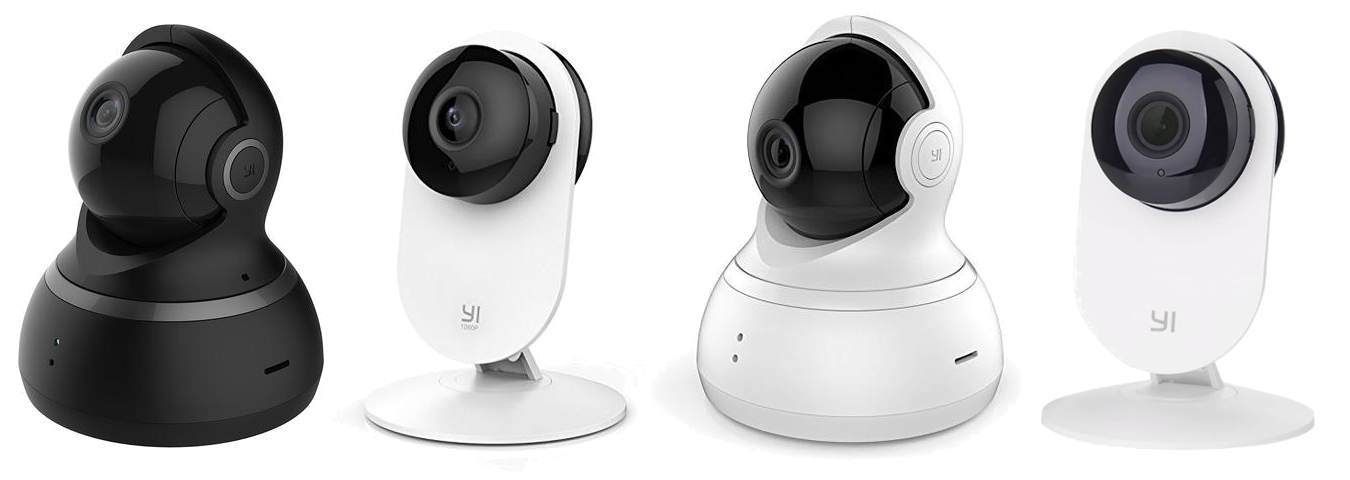
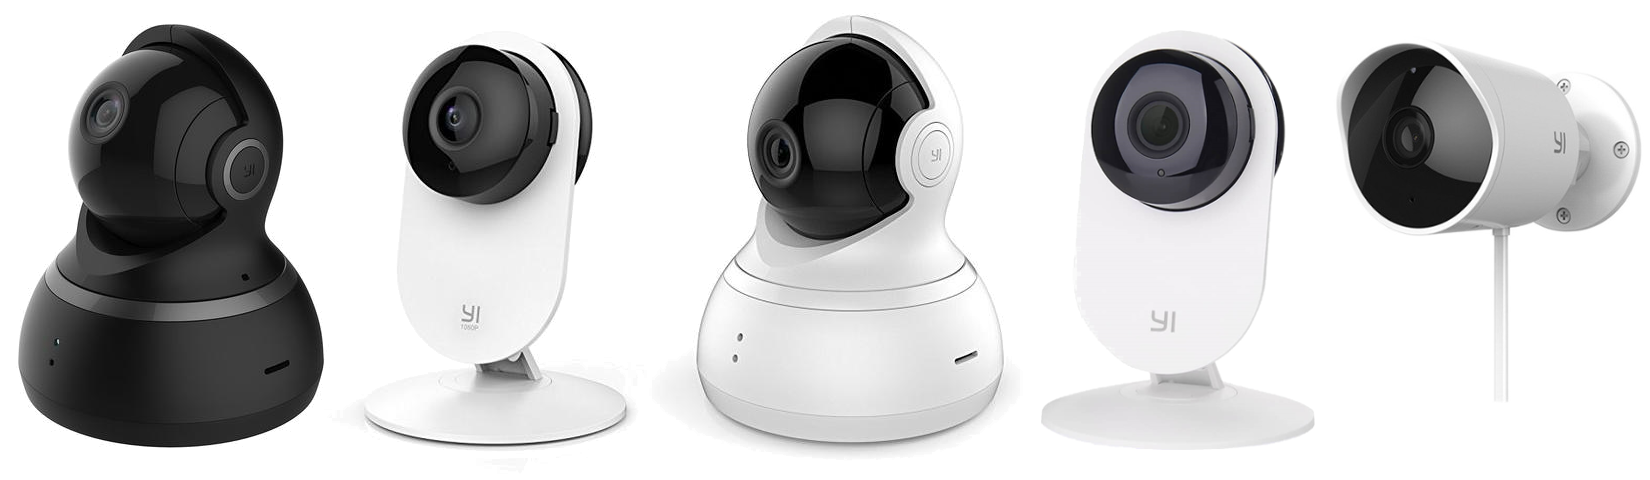
Added support for Yi Outdoor camera.

diff --git a/README.md b/README.md
@@ -7,6 +7,7 @@ Currently this project supports:
 * Yi 1080p Home
 * Yi Dome
 * Yi 1080p Dome
+* Yi Outdoor
 
 ![Alt text](yi-cam.png?raw=true "Supported Yi Cameras")
 
@@ -65,6 +66,7 @@ Performance is not degraded as the cameras video/audio feed is not routed throug
 
 ## Getting Started - Step by Step Guide
 1. Check that you have a correct Xiaomi Yi camera. Currently four (4) series of cameras are supported: 
+* Yi Outdoor
 * Yi Home 17CN / 27US / 47US Camera
 * Yi 1080p Home Camera
 * Yi Dome Camera
@@ -83,6 +85,7 @@ Performance is not degraded as the cameras video/audio feed is not routed throug
 | **Yi 1080p Home** | rootfs_y20 | home_y20 | Firmware files required for the Yi 1080p Home camera. |
 | **Yi Dome** | rootfs_v201 | home_v201 | Firmware files required for the Yi Dome camera. |
 | **Yi 1080p Dome** | rootfs_h20 | home_h20 | Firmware files required for the Yi 1080p Dome camera. |
+| **Yi Outdoor** | rootfs_h30 | home_h30 | Firmware files required for the Yi Outdoor camera. |
 
 4. Save both files on root path of microSD card.
 
@@ -196,6 +199,7 @@ Recovery images have been created to go back to stock firmware. You can download
 | **Yi 1080p Home** | rootfs_y20 | home_y20 | Stock firmware is version 2.0.0.1A_201612051401. |
 | **Yi Dome** | rootfs_v201 | home_v201 | Stock firmware is version 1.9.1.0F_201701041701. |
 | **Yi 1080p Dome** | rootfs_h20 | home_h20 | Stock firmware is version 1.9.2.0C_201611011902. |
+| **Yi Outdoor** | rootfs_h30 | home_h30 | Stock firmware is version 3.0.0.0A_201710131102. |
 
 ## Development
 **TODO**
